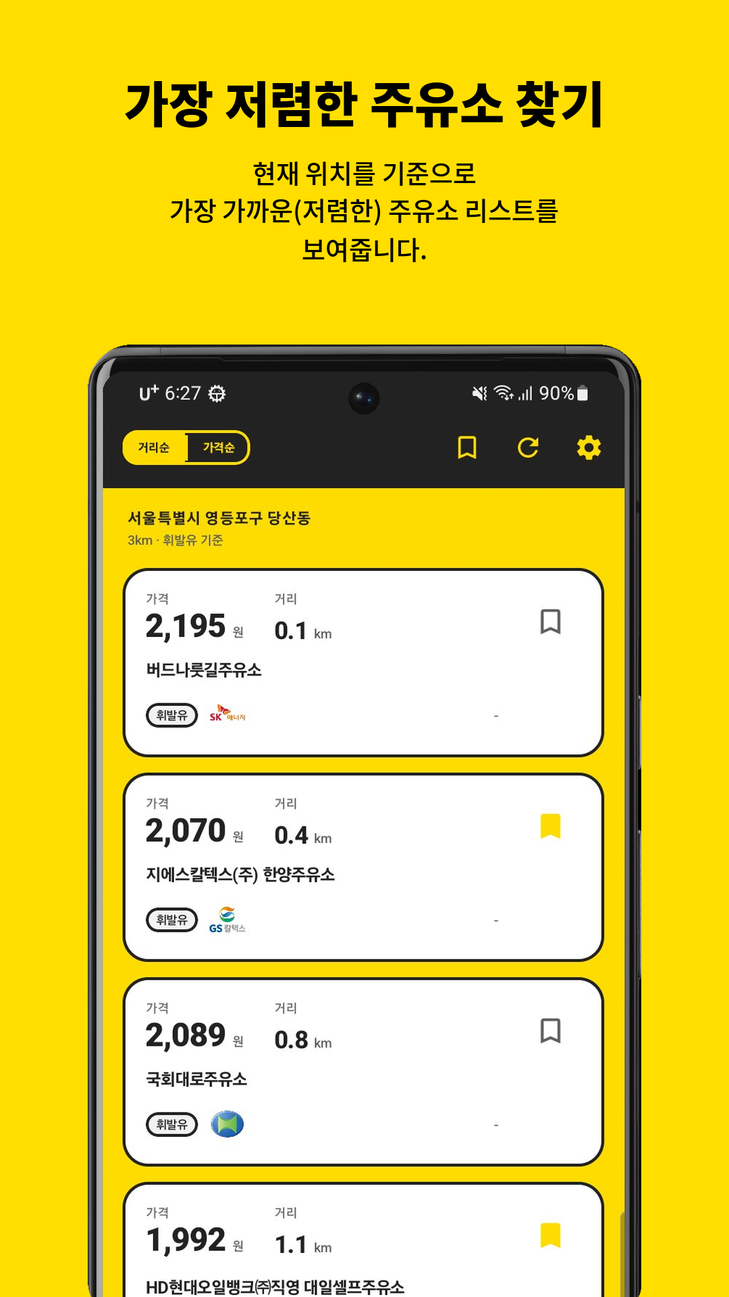
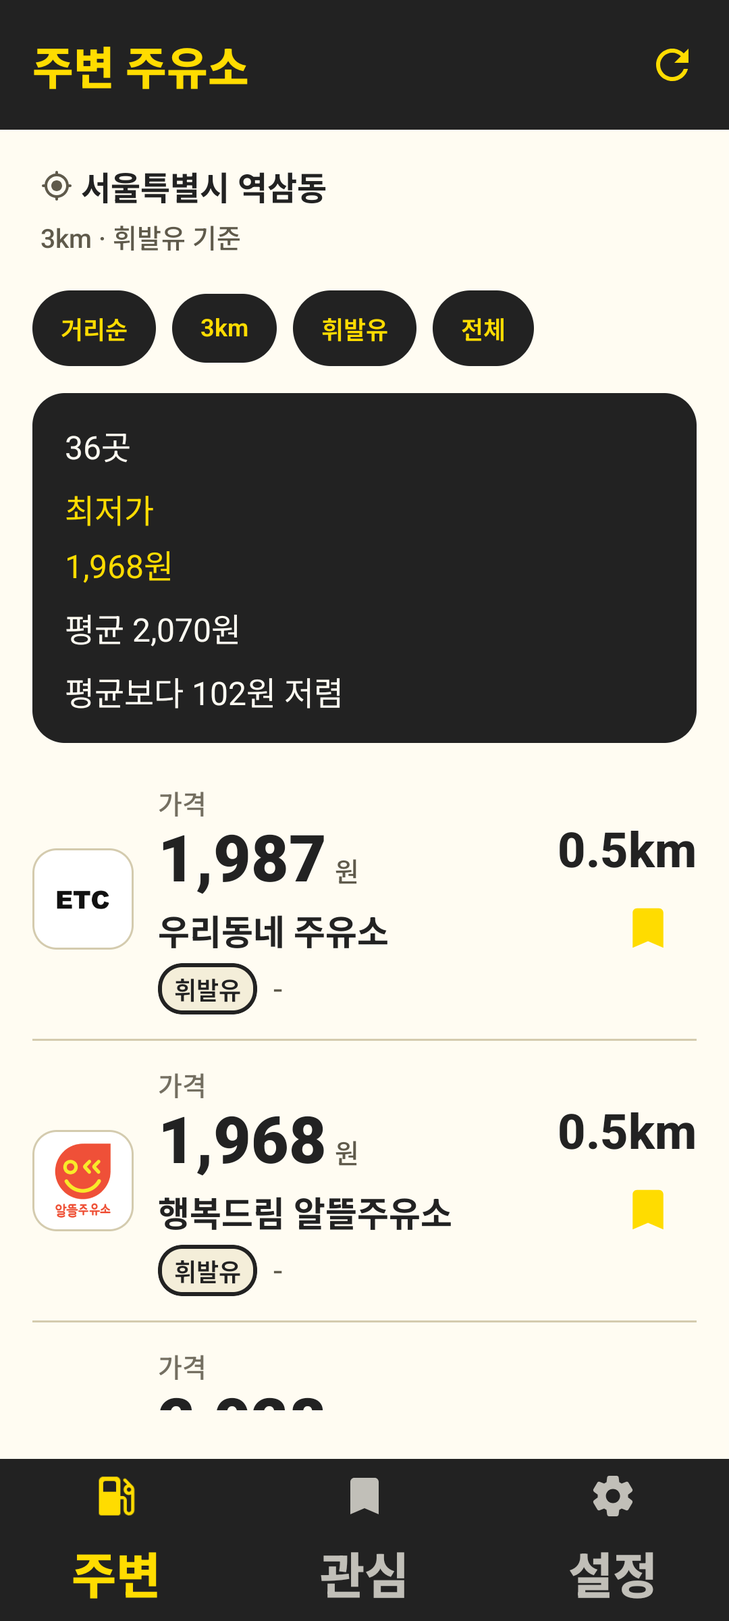
docs: publish Urban Signal UI evidence

diff --git a/app/src/androidTest/java/com/gasstation/StationPortfolioFlowTest.kt b/app/src/androidTest/java/com/gasstation/StationPortfolioFlowTest.kt
@@ -1,10 +1,10 @@
 package com.gasstation
 
+import android.Manifest
 import androidx.compose.ui.test.junit4.v2.createAndroidComposeRule
-import androidx.compose.ui.test.onAllNodesWithContentDescription
 import androidx.compose.ui.test.onAllNodesWithTag
 import androidx.compose.ui.test.onFirst
-import androidx.compose.ui.test.onNodeWithContentDescription
+import androidx.compose.ui.test.onNodeWithTag
 import androidx.compose.ui.test.performClick
 import androidx.test.ext.junit.runners.AndroidJUnit4
 import androidx.test.platform.app.InstrumentationRegistry
@@ -19,7 +19,9 @@ import kotlinx.coroutines.runBlocking
 import org.junit.Before
 import org.junit.Rule
 import org.junit.Test
+import org.junit.rules.TestRule
 import org.junit.runner.RunWith
+import org.junit.runners.model.Statement
 import javax.inject.Inject
 
 @HiltAndroidTest
@@ -34,10 +36,29 @@ class StationPortfolioFlowTest {
     @Inject
     lateinit var settingsRepository: SettingsRepository
 
-    @get:Rule
+    @get:Rule(order = 0)
     val hiltRule = HiltAndroidRule(this)
 
-    @get:Rule
+    @get:Rule(order = 1)
+    val locationPermissionRule = TestRule { base, _ ->
+        object : Statement() {
+            override fun evaluate() {
+                val instrumentation = InstrumentationRegistry.getInstrumentation()
+                val packageName = instrumentation.targetContext.packageName
+                instrumentation.uiAutomation.grantRuntimePermission(
+                    packageName,
+                    Manifest.permission.ACCESS_COARSE_LOCATION,
+                )
+                instrumentation.uiAutomation.grantRuntimePermission(
+                    packageName,
+                    Manifest.permission.ACCESS_FINE_LOCATION,
+                )
+                base.evaluate()
+            }
+        }
+    }
+
+    @get:Rule(order = 2)
     val rule = createAndroidComposeRule<MainActivity>()
 
     @Before
@@ -50,20 +71,15 @@ class StationPortfolioFlowTest {
         reseedDemoDatabase()
 
         rule.waitUntil(timeoutMillis = 10_000) {
-            rule.onAllNodesWithContentDescription("저장")
+            rule.onAllNodesWithTag("station-list-watch-toggle", useUnmergedTree = true)
                 .fetchSemanticsNodes().isNotEmpty()
         }
 
-        rule.onAllNodesWithContentDescription("저장")
+        rule.onAllNodesWithTag("station-list-watch-toggle", useUnmergedTree = true)
             .onFirst()
             .performClick()
 
-        rule.waitUntil(timeoutMillis = 10_000) {
-            rule.onAllNodesWithContentDescription("북마크")
-                .fetchSemanticsNodes().isNotEmpty()
-        }
-
-        rule.onNodeWithContentDescription("북마크").performClick()
+        rule.onNodeWithTag("bottom-nav-watchlist", useUnmergedTree = true).performClick()
 
         rule.waitUntil(timeoutMillis = 10_000) {
             rule.onAllNodesWithTag(

diff --git a/benchmark/src/main/kotlin/com/gasstation/benchmark/GasStationBenchmarkActions.kt b/benchmark/src/main/kotlin/com/gasstation/benchmark/GasStationBenchmarkActions.kt
@@ -16,7 +16,7 @@ private const val COARSE_LOCATION_PERMISSION = "android.permission.ACCESS_COARSE
 private const val FINE_LOCATION_PERMISSION = "android.permission.ACCESS_FINE_LOCATION"
 private const val REFRESH_ACTION_DESCRIPTION = "새로고침"
 private const val REFRESH_RAIL_TITLE = "가격 갱신 중"
-private const val STATION_LIST_WATCHLIST_ACTION_TAG = "station-list-watchlist-action"
+private const val BOTTOM_NAV_WATCHLIST_TAG = "bottom-nav-watchlist"
 private const val STATION_LIST_WATCH_TOGGLE_TAG = "station-list-watch-toggle"
 private const val WATCHLIST_CARD_TAG = "watchlist-card"
 
@@ -79,8 +79,8 @@ internal fun MacrobenchmarkScope.openWatchlistWithSavedStation() {
         label = "station-list watch toggle resource id '$STATION_LIST_WATCH_TOGGLE_TAG'",
     )
     clickStable(
-        selector = resourceId(STATION_LIST_WATCHLIST_ACTION_TAG),
-        label = "station-list watchlist action resource id '$STATION_LIST_WATCHLIST_ACTION_TAG'",
+        selector = resourceId(BOTTOM_NAV_WATCHLIST_TAG),
+        label = "watchlist bottom navigation resource id '$BOTTOM_NAV_WATCHLIST_TAG'",
     )
     waitForObject(
         selector = resourceId(WATCHLIST_CARD_TAG),

diff --git a/tools/demo-seed/src/main/kotlin/com/gasstation/tools/demoseed/DemoSeedGenerator.kt b/tools/demo-seed/src/main/kotlin/com/gasstation/tools/demoseed/DemoSeedGenerator.kt
@@ -43,14 +43,18 @@ class DemoSeedGenerator(private val fetcher: DemoSeedStationFetcher) {
         originLabel: String = GANGNAM_STATION_EXIT_2_LABEL,
     ): DemoSeedDocument {
         val snapshots = DemoSeedQueryMatrix.all().map { query ->
+            val fetchedStations = fetcher.fetchStations(
+                origin = origin,
+                radius = query.radius,
+                fuelType = query.fuelType,
+            )
+            val stations = (fetchedStations + DemoPortfolioStations.forQuery(query.radius, query.fuelType))
+                .distinctBy(DemoSeedRemoteStation::stationId)
+
             DemoSeedSnapshot(
                 radiusMeters = query.radius.meters,
                 fuelType = query.fuelType.name,
-                stations = fetcher.fetchStations(
-                    origin = origin,
-                    radius = query.radius,
-                    fuelType = query.fuelType,
-                ).map { station ->
+                stations = stations.map { station ->
                     DemoSeedStation(
                         stationId = station.stationId,
                         brandCode = station.brandCode,

diff --git a/tools/demo-seed/src/test/kotlin/com/gasstation/tools/demoseed/DemoSeedGeneratorTest.kt b/tools/demo-seed/src/test/kotlin/com/gasstation/tools/demoseed/DemoSeedGeneratorTest.kt
@@ -1,5 +1,6 @@
 package com.gasstation.tools.demoseed
 
+import com.gasstation.core.model.Brand
 import com.gasstation.core.model.Coordinates
 import com.gasstation.core.model.FuelType
 import com.gasstation.core.model.SearchRadius
@@ -97,7 +98,11 @@ class DemoSeedGeneratorTest {
         val document = DemoSeedJsonWriter.gson.fromJson(outputFile.readText(), DemoSeedDocument::class.java)
         assertEquals(15, document.queries.size)
         assertEquals("Gangnam Station Exit 2", document.origin.label)
-        assertEquals(2, document.history.size)
+        val portfolioSnapshot = document.queries.single {
+            it.radiusMeters == SearchRadius.KM_3.meters && it.fuelType == FuelType.GASOLINE.name
+        }
+        assertTrue(portfolioSnapshot.stations.any { it.brandCode == Brand.RTO.name })
+        assertTrue(portfolioSnapshot.stations.any { it.brandCode == Brand.ETC.name })
         assertTrue(document.history.any { it.stationId == "station-1" && it.fuelType == FuelType.GASOLINE.name })
         assertTrue(document.history.any { it.stationId == "station-2" && it.fuelType == FuelType.GASOLINE.name })
     }

diff --git a/tools/demo-seed/src/main/kotlin/com/gasstation/tools/demoseed/DemoPortfolioStations.kt b/tools/demo-seed/src/main/kotlin/com/gasstation/tools/demoseed/DemoPortfolioStations.kt
@@ -1,0 +1,28 @@
+package com.gasstation.tools.demoseed
+
+import com.gasstation.core.model.Coordinates
+import com.gasstation.core.model.FuelType
+import com.gasstation.core.model.SearchRadius
+
+internal object DemoPortfolioStations {
+    fun forQuery(radius: SearchRadius, fuelType: FuelType): List<DemoSeedRemoteStation> {
+        if (radius != SearchRadius.KM_3 || fuelType != FuelType.GASOLINE) return emptyList()
+
+        return listOf(
+            DemoSeedRemoteStation(
+                stationId = "DEMO-RTO-001",
+                name = "행복드림 알뜰주유소",
+                brandCode = "RTO",
+                priceWon = 1_968,
+                coordinates = Coordinates(latitude = 37.4935, longitude = 127.0258),
+            ),
+            DemoSeedRemoteStation(
+                stationId = "DEMO-ETC-001",
+                name = "우리동네 주유소",
+                brandCode = "ETC",
+                priceWon = 1_987,
+                coordinates = Coordinates(latitude = 37.5004, longitude = 127.0321),
+            ),
+        )
+    }
+}

diff --git a/app/src/testDemo/java/com/gasstation/demo/seed/DemoSeedAssetLoaderTest.kt b/app/src/testDemo/java/com/gasstation/demo/seed/DemoSeedAssetLoaderTest.kt
@@ -2,6 +2,7 @@ package com.gasstation.demo.seed
 
 import android.app.Application
 import androidx.test.core.app.ApplicationProvider
+import com.gasstation.core.model.Brand
 import com.gasstation.core.model.FuelType
 import com.gasstation.core.model.SearchRadius
 import org.junit.Assert.assertEquals
@@ -73,5 +74,10 @@ class DemoSeedAssetLoaderTest {
         assertEquals(DemoSeedOrigin.coordinates.latitude, document.origin.latitude, 0.0)
         assertEquals(DemoSeedOrigin.coordinates.longitude, document.origin.longitude, 0.0)
         assertEquals(expectedMatrix, actualMatrix)
+        val portfolioSnapshot = document.queries.single {
+            it.radiusMeters == SearchRadius.KM_3.meters && it.fuelType == FuelType.GASOLINE.name
+        }
+        assertEquals(true, portfolioSnapshot.stations.any { it.brandCode == Brand.RTO.name })
+        assertEquals(true, portfolioSnapshot.stations.any { it.brandCode == Brand.ETC.name })
     }
 }

diff --git a/app/src/main/java/com/gasstation/navigation/GasStationNavHost.kt b/app/src/main/java/com/gasstation/navigation/GasStationNavHost.kt
@@ -7,6 +7,7 @@ import androidx.compose.animation.fadeIn
 import androidx.compose.animation.fadeOut
 import androidx.compose.animation.slideInHorizontally
 import androidx.compose.animation.slideOutHorizontally
+import androidx.compose.foundation.layout.WindowInsets
 import androidx.compose.foundation.layout.padding
 import androidx.compose.material3.MaterialTheme
 import androidx.compose.material3.Scaffold
@@ -55,6 +56,7 @@ fun GasStationNavHost(externalMapLauncher: ExternalMapLauncher, onStationListFir
 
     Scaffold(
         containerColor = MaterialTheme.colorScheme.background,
+        contentWindowInsets = WindowInsets(0),
         bottomBar = {
             if (shouldShowBottomBar(currentRoute)) {
                 GasStationBottomNavigation(

diff --git a/benchmark/src/main/kotlin/com/gasstation/benchmark/BaselineProfileGenerator.kt b/benchmark/src/main/kotlin/com/gasstation/benchmark/BaselineProfileGenerator.kt
@@ -21,6 +21,7 @@ class BaselineProfileGenerator {
         waitForStationListContent()
         refreshStationList()
         scrollStationList()
+        // Save one station, then enter Watchlist through the persistent bottom navigation.
         openWatchlistWithSavedStation()
     }
 }

diff --git a/docs/architecture.md b/docs/architecture.md
@@ -6,7 +6,7 @@
 
 | 용어 | 뜻 |
 | --- | --- |
-| watchlist(북마크) | UI에서 저장한 주유소를 비교하는 기능. 코드와 모듈 이름은 `watchlist`, 화면 문구는 주로 "북마크"를 사용 |
+| watchlist(관심) | UI에서 저장한 주유소를 비교하는 기능. 코드와 모듈 이름은 `watchlist`, 화면 문구는 "관심"을 사용 |
 | 스냅샷 | 특정 캐시 버킷에 대해 마지막으로 저장한 주유소 목록 |
 | 스냅샷 마커 | `station_cache_snapshot` 한 행. 빈 결과도 "성공한 조회"로 구분하기 위해 따로 유지 |
 | stale | 저장된 결과는 있지만 `StationCachePolicy` 기준 5분을 넘긴 상태 |
@@ -84,7 +84,7 @@ flowchart LR
 | `data:station` | Room 스냅샷/히스토리/watchlist와 원격 조회를 조합하는 저장소 구현, 검색 결과/watchlist 읽기 모델 조립, 일시적 refresh 실패 1회 재시도, 성공 refresh 이후 캐시 정리 |
 | `core:model` | `Coordinates`, `DistanceMeters`, `MoneyWon` 값 객체, `Coordinates.distanceTo`, `Brand.fromCode`, `Brand`, `BrandFilter`, `FuelType`, `MapProvider`, `SearchRadius`, `SortOrder` 공유 enum vocabulary |
 | `core:observability` | `CrashReporter` 같은 SDK-agnostic 관찰/진단 계약 |
-| `core:designsystem` | `GasStationTheme`, 색상/타이포 token, 카드/배너/탑바, metric/supporting-info/row/guidance 공유 UI primitive, 브랜드 아이콘 리소스와 표시 라벨 매핑 |
+| `core:designsystem` | `GasStationTheme`, Urban Signal 색상/타이포/spacing token, bottom/top chrome, metric/row/guidance 공유 UI primitive, 실제 브랜드 drawable 매핑 |
 | `core:location` | `domain:location` 구현체, Android 위치 provider, availability flow, API 33+ 지오코더 callback과 pre-33 fallback, Android 주소 후보를 domain 정규화 규칙으로 변환, `DemoLocationOverride` 계약, repository/provider Hilt 바인딩 |
 | `core:network` | direct Opinet과 proxy 두 endpoint 모드를 `StationNetworkSource` 계약으로 추상화(`NetworkStationFetcher` vs `ProxyStationFetcher`), Opinet Retrofit 서비스, 로컬 KATEC 변환, 원격 fetcher. `FuelType`, `SearchRadius` 같은 공유 검색 입력만 받아 원격 DTO를 정규화. endpoint 모드와 base URL은 `app`이 주입한 `NetworkRuntimeConfig`만 따름 |
 | `core:database` | Room DB, DAO, migration |
@@ -98,16 +98,19 @@ flowchart LR
 
 ## Presentation hierarchy
 
-화면 정보 위계는 `core:designsystem`의 공통 primitive를 먼저 통과합니다. 가격과 거리처럼 비교 판단에 쓰이는 숫자는 `GasStationMetricBlock`과 `GasStationMetricEmphasis`를 사용하고, 보조 정보는 `GasStationSupportingInfo`, 설정 행은 `GasStationRow`, 권한/GPS/loading/empty/failure 안내는 `GasStationGuidanceCard`, stale/approximate 같은 목록 상단 상태는 `GasStationStatusBanner`로 표현합니다.
+화면 정보 위계는 `core:designsystem`의 공통 primitive를 먼저 통과합니다. canvas는 `#FFFCF2`, black chrome은 `#222222`, yellow decision signal은 `#FFDC00`입니다. 가격과 거리처럼 비교 판단에 쓰이는 숫자는 metric primitive를 사용하고, Nearby/Watchlist는 borderless row, Settings는 flat row, 권한/GPS/loading/empty/failure는 guidance primitive, stale/approximate는 status banner로 표현합니다.
 
-이 primitive들은 배치와 텍스트 역할만 소유합니다. "브랜드 label을 목록에서는 숨기고 watchlist에서는 보인다", "GPS가 loading보다 먼저 보인다", "어떤 실패 문구를 쓴다" 같은 화면별 판단은 계속 `feature:*`가 소유합니다.
+이 primitive들은 배치와 텍스트 역할만 소유합니다. "브랜드 label을 숨긴다", "GPS가 loading보다 먼저 보인다", "어떤 실패 문구를 쓴다" 같은 화면별 판단은 계속 `feature:*`가 소유합니다.
 
 화면별 핵심 계약:
 
-- `feature:station-list`: 가격을 첫 번째 읽기 대상으로 두고, 거리와 역명을 이어 보여줍니다. 브랜드는 유종 chip 옆 아이콘 중심으로만 노출하고 visible brand label은 렌더링하지 않습니다.
-- Station-list 파일 소유: `StationListScreen.kt`는 screen scaffold와 refresh rail을, `StationListCards.kt`는 카드와 watch toggle을, `StationListStates.kt`는 permission/GPS/loading/empty/failure 안내를, `StationListQuerySummary.kt`와 `StationListBodyState.kt`는 query context와 body 분기를 맡습니다.
-- `feature:watchlist`: 같은 metric 위계를 쓰지만 저장 항목 식별을 위해 brand icon과 visible brand label을 함께 보여줍니다.
+- `feature:station-list`: 32sp 가격을 첫 번째 읽기 대상으로 두고, 거리와 역명을 이어 보여줍니다. 브랜드는 실제 drawable 아이콘만 노출하고 visible brand label은 렌더링하지 않습니다.
+- Station-list 파일 소유: `StationListScreen.kt`는 screen scaffold와 refresh/filter rail을, `StationListCards.kt`는 borderless row와 watch toggle을, `StationListStates.kt`는 permission/GPS/loading/empty/failure 안내를, `StationListQuerySummary.kt`와 `StationListBodyState.kt`는 typed summary와 body 분기를 맡습니다.
+- `feature:watchlist`: 28sp 가격과 108–116dp 기본 row로 저장 항목을 비교합니다. 실제 brand icon만 보여주며 visible label은 반복하지 않고, 200% 글꼴에서는 row가 확장되어 scroll됩니다.
 - `feature:settings`: 설정 main/detail 모두 shared row rhythm을 쓰되, 값 저장은 기존 `domain:settings` update use case 경로를 유지합니다.
+- `app`: `주변·관심·설정` bottom navigation의 tab별 state/scroll을 `saveState`/`restoreState`로 보존하고 SettingsDetail에서만 bottom navigation을 숨깁니다.
+
+브랜드 자산은 생성하거나 recolor하지 않습니다. RTO/RTX/NHO는 `ic_rtx`, ETC는 `ic_etc`, SKE/GSC/HDO/SOL/E1G/SKG는 각 checked-in drawable을 사용합니다.
 
 ## 런타임 흐름
 
@@ -120,7 +123,7 @@ flowchart LR
 5. `StationSearchOrchestrator`는 현재 좌표와 검색 입력(`radius`, `fuelType`, `brandFilter`, `sortOrder`)으로 active `StationQuery`를 만들고 `ObserveNearbyStationsUseCase` 결과, cache snapshot state, pending blocking refresh failure를 조합합니다.
 6. 현재 좌표가 유지된 상태에서 반경, 유종, 브랜드, 정렬 조건이 바뀌면 ViewModel은 active query를 새 조건으로 전환하고 `RefreshNearbyStationsUseCase`를 호출합니다. 브랜드 필터와 정렬은 캐시 키에는 없지만, 화면은 새 조건으로 즉시 읽기 모델을 다시 만들고 원격 성공 시 같은 버킷 스냅샷을 최신 데이터로 교체합니다.
 7. `DefaultStationRepository.observeNearbyStations()`는 Room 스냅샷, watch 상태, 가격 히스토리를 결합해 `StationSearchResult`를 만듭니다.
-8. ViewModel은 loading flag, 사용자 action dispatch, one-shot effect, 최종 `StationListUiState` 조합을 맡고, UI는 목록, stale 배너, 전면 오류, snackbar, 외부 지도 effect를 구분해 렌더링합니다. 목록 카드의 브랜드 영역은 유종 chip과 브랜드 아이콘만 보여주고 브랜드 텍스트는 생략합니다.
+8. ViewModel은 loading flag, 사용자 action dispatch, one-shot effect, 최종 `StationListUiState` 조합을 맡고, UI는 목록, stale 배너, 전면 오류, snackbar, 외부 지도 effect를 구분해 렌더링합니다. 목록 row의 브랜드 영역은 실제 브랜드 아이콘만 보여주고 브랜드 텍스트는 생략합니다.
 
 첫 usable content가 렌더링되면 `feature:station-list`가 순수 policy로 이 상태를 판단하고, `app`의 Compose host가 그 신호를 받아 `reportFullyDrawn()`을 한 번 호출합니다. 이 연결은 startup metric 보고용이며, 검색 정책이나 cache/stale 판단은 계속 feature/data/domain 경계에 남습니다.
 
@@ -143,12 +146,12 @@ flowchart LR
 2. 상세 화면은 별도 ViewModel을 만들지 않고, `GasStationNavHost`에서 settings back stack owner를 공유받아 같은 `SettingsViewModel`을 사용합니다.
 3. 사용자가 값을 바꾸면 `UpdateFuelTypeUseCase`, `UpdateSearchRadiusUseCase`, `UpdateBrandFilterUseCase`, `UpdateMapProviderUseCase`, `UpdatePreferredSortOrderUseCase` 같은 명시적 설정 유스케이스를 통해 `UserPreferences`가 갱신되고, 목록 화면도 같은 값을 즉시 반영합니다.
 
-### 4. watchlist(북마크) 화면
+### 4. watchlist(관심) 화면
 
-1. 목록 화면은 현재 좌표를 nav argument로 넘겨 `WatchlistRoute`로 이동합니다.
+1. 목록 화면이 전달한 최신 좌표는 app navigation state의 payload로 유지됩니다. 좌표가 없으면 관심 tab은 disabled semantics를 노출하며, 좌표가 바뀌면 이전 concrete route를 제거하고 새 payload route로 이동합니다.
 2. `WatchlistViewModel`은 `SavedStateHandle`에서 기준 좌표를 읽고 `ObserveWatchlistUseCase`를 바로 구독합니다.
 3. 저장소는 `watched_station`, station별 최신 캐시, 가격 히스토리를 조합해 `WatchedStationSummary`를 만듭니다. 최신 캐시는 DAO가 stationId 선행 index와 deterministic tie-breaker로 station별 한 행만 반환합니다.
-4. 화면은 별도 세션 상태 없이 요약 카드만 렌더링합니다.
+4. 화면은 별도 위치 조회, refresh session, snackbar undo 없이 summary와 저장 행을 렌더링합니다. 이 좌표 payload는 navigation state이며 검색/위치 비즈니스 정책은 아닙니다.
 
 ## flavor와 startup hook
 

diff --git a/docs/test-strategy.md b/docs/test-strategy.md
@@ -26,14 +26,14 @@
 | `core:network` | `LocalKoreanCoordinateTransformTest`, `NetworkStationFetcherTest`, `ProxyStationFetcherTest`, `NetworkRuntimeConfigTest` | 좌표 변환, direct/proxy 원격 fetcher, endpoint 모드 설정 주입과 proxy base URL 검증 |
 | `core:location` | `AddressLabelFormatterTest`, `AndroidForegroundLocationProviderSurfaceTest`, `AndroidForegroundLocationProviderTest`, `DefaultLocationRepositoryTest`, `LocationAvailabilityFlowTest`, `LocationPermissionStateTest`, `GeocoderAsyncLookupTest`, `AndroidAddressResolverDeviceTest` | Android 위치 조회 표면, API 33+ 지오코더 callback wrapping, Android Address 후보 변환과 domain 정규화 적용, domain location 구현, availability broadcast 반영, device-backed callback smoke |
 | `core:datastore` | `UserPreferencesSerializerTest`, `AndroidUserPreferencesDataSourceTest` | storage-local 설정 DTO 직렬화와 DataStore 업데이트 |
-| `core:designsystem` | `GasStationThemeDefaultsTest`, `GasStationThemeSurfaceTest`, `GasStationThemeTokensTest`, `ChromeContractsTest`, `BrandIconTest`, `BrandLabelsTest` | 브랜드 anchor 색상, tinted surface token, typography/spacing token, metric/supporting-info/row/status/guidance chrome 계약, `Brand`별 아이콘과 표시 label 매핑 |
+| `core:designsystem` | `GasStationThemeDefaultsTest`, `GasStationThemeSurfaceTest`, `GasStationThemeTokensTest`, `ChromeContractsTest`, `BrandIconTest`, `BrandLabelsTest`, Roborazzi snapshot | Urban Signal `#FFFCF2`/`#222222`/`#FFDC00` token, typography/spacing, chrome와 shared primitive, 실제 `Brand` drawable 매핑 |
 | `data:settings` | `DefaultSettingsRepositoryTest` | storage-local 설정 DTO와 domain `UserPreferences` 매핑, 알 수 없는 enum name fallback |
 | `data:station` | `DefaultStationRepositoryTest`, `StationCachePolicyTest`, `data:station/StationRetryPolicyTest`, `StationRemoteDataSourceTest`, `WatchlistRepositoryTest` | 캐시/히스토리/watchlist 조합, stale/retention 규칙, 성공 refresh 이후 pruning과 `SearchRefreshed` event, `Timeout`/`Network` retry once 정책과 retry event, 원격 오류 매핑 |
-| `feature:station-list` | `feature:station-list/LocationStateMachineTest`, `feature:station-list/StationSearchOrchestratorTest`, `StationListViewModelTest`, `StationListScreenTest`, `StationListRoutePolicyTest`, `StationListBannerModelTest`, `StationListItemUiModelTest`, `GpsAvailabilityMonitorTest` | 위치 상태 전이, query/cache/failure orchestration, extraction 이후 UI state composition/effect/action dispatch, stale/approximate guidance, 주소 컨텍스트 표시, 가격 우선 카드, 긴 역명/가격/유종 clipping 방지, route lifecycle 기반 availability 관찰과 권한/GPS recovery, first usable content 기준 |
-| `feature:settings` | `SettingsViewModelTest`, `SettingsScreenTest`, `SettingsSectionTest` | 설정 요약/상세 화면 계약, 그룹/row hierarchy, selected check affordance, 긴 현재값 row clipping 방지 |
-| `feature:watchlist` | `WatchlistViewModelTest`, `WatchlistScreenTest`, `WatchlistItemUiModelTest` | 북마크 비교 화면 상태와 표시, `CompareViewed` event, brand label 보존, metric column alignment, 긴 저장 항목/큰 가격 clipping 방지 |
+| `feature:station-list` | `feature:station-list/LocationStateMachineTest`, `feature:station-list/StationSearchOrchestratorTest`, `StationListViewModelTest`, `StationListScreenTest`, `StationListRoutePolicyTest`, `StationListBannerModelTest`, `StationListItemUiModelTest`, `GpsAvailabilityMonitorTest`, Roborazzi states | 위치 상태 전이, query/cache/failure orchestration, price-first row와 typed summary, stale/empty/permission/GPS/failure, 긴 역명/가격/유종 clipping 방지, route lifecycle 기반 availability 관찰과 권한/GPS recovery, first usable content 기준 |
+| `feature:settings` | `SettingsViewModelTest`, `SettingsScreenTest`, `SettingsSectionTest`, Roborazzi overview/detail | 설정 상태, update use case dispatch, flat row, 실제 브랜드 tile, route/summary 계약 |
+| `feature:watchlist` | `WatchlistViewModelTest`, `WatchlistScreenTest`, `WatchlistItemUiModelTest`, Roborazzi snapshot | 관심 비교 상태, `CompareViewed` event, 실제 logo와 visible label 미반복, 108–116dp 5행, 200% font scale 확장과 clipping 방지 |
 | `app` | `AppStartupGraphTest`, `AppStartupRunnerTest`, `ExternalMapLauncherTest`, `SplashThemeResourceTest`, `AppIconResourceTest`, `NetworkSecurityConfigResourceTest`, `BackupPolicyResourceTest`, `ProdSecretsStartupHookTest` | startup hook 바인딩, prod key fail-fast, 앱 리소스, Opinet-only cleartext config, Android backup 비활성화, 외부 지도 인텐트 |
-| `demo` 전용 앱 경로 | `DemoSeedStartupHookTest`, `DemoSeedAssetLoaderTest`, `DemoLocationHookIntegrationTest`, `StationPortfolioFlowTest` | seed 적재, 고정 위치, 실제 북마크 플로우 |
+| `demo` 전용 앱 경로 | `DemoSeedStartupHookTest`, `DemoSeedAssetLoaderTest`, `DemoLocationHookIntegrationTest`, `StationPortfolioFlowTest` | seed 적재, 고정 위치, RTO/ETC portfolio row, `station-list-watch-toggle` -> `bottom-nav-watchlist` -> `watchlist-card` 실제 관심 플로우 |
 | `benchmark` | `StationListBenchmark`, `BaselineProfileGenerator`, `GasStationBenchmarkActions` | startup-to-first-content, list scroll, refresh, watchlist 진입, baseline profile journey |
 | `tools:demo-seed` | `DemoSeedGeneratorTest` | seed 생성기와 질의 매트릭스 |
 
@@ -45,7 +45,7 @@
 
 - startup hook이 DB와 선호를 고정 상태로 리셋하는지
 - 고정 위치 override가 실제 런타임에 들어오는지
-- 목록 -> 북마크 저장 -> watchlist 이동 플로우가 실제 기기 테스트에서 동작하는지
+- 목록 -> 관심 저장 -> `bottom-nav-watchlist` -> `watchlist-card` 플로우가 실제 기기 테스트에서 동작하는지
 - benchmark가 반복 가능한 데이터 경로를 기준으로 측정되는지
 
 ### `prod`
@@ -70,12 +70,12 @@
   Android 지오코더는 `대한민국`, `KR`, 건물 동, 도로명 조각을 섞어 줄 수 있습니다. 순수 정규화는 `domain:location`, Android `Address` 후보 변환은 `core:location` 테스트로 나눠 목록 상단에 raw 주소가 그대로 노출되지 않게 막습니다.
 - `AndroidAddressResolverDeviceTest`
   API 33+ Geocoder callback path를 실제 기기/에뮬레이터에서 확인하는 connected smoke test입니다. Provider 출력은 기기와 네트워크 상태에 따라 달라지므로 주소 문자열이 아니라 terminal domain result 도달만 검증합니다.
-- `BrandLabels`
-  station list, watchlist, settings가 같은 브랜드 표시 label을 공유하므로 RTX 같은 canonical label 회귀를 한 곳에서 막습니다.
+- `BrandIconTest` / feature Roborazzi
+  RTO/RTX/NHO -> `ic_rtx`, ETC -> `ic_etc`와 나머지 실제 drawable mapping, Watchlist의 visible brand label 미반복을 함께 막습니다.
 - Theme/string cleanup
   Feature-owned user copy는 `app`이나 `core:designsystem`으로 이동하지 않습니다. 화면 semantics와 test tag가 회귀 방어선입니다.
 - Compose semantics/test tag cleanup
-  테스트용 식별자는 사용자 표시 문자열과 분리합니다. watchlist card처럼 스크린 리더에 필요한 한글 설명은 유지하되, 테스트는 안정적인 ASCII tag를 선택합니다.
+  테스트용 식별자는 사용자 표시 문자열과 분리합니다. 스크린 리더에 필요한 한글 설명은 유지하되, 테스트는 `station-list-watch-toggle`, `bottom-nav-watchlist`, `watchlist-card` 같은 안정적인 ASCII tag를 선택합니다.
 - Station-list Main dispatcher test setup
   `StationListViewModelTest`의 `Dispatchers.setMain/resetMain` 반복은 `MainDispatcherRule`로 묶어 scheduler 기대를 한 곳에서 관리합니다.
 - `DemoSeedStartupHook`

diff --git a/README.md b/README.md
@@ -14,19 +14,19 @@
 
 ## 미리보기
 
-`prod` 기준 주요 화면입니다.
+재현 가능한 `demo` 경로에서 캡처한 Urban Signal UI 주요 화면입니다.
 
 <p align="center">
-  <img width="31%" alt="주유주유소 가까운 주유소 목록 화면" src="docs/readme-assets/playstore_11.png">
-  <img width="31%" alt="주유주유소 한 번의 터치 길 안내 화면" src="docs/readme-assets/playstore_22.png">
-  <img width="31%" alt="주유주유소 찾기 설정 화면" src="docs/readme-assets/playstore_33.png">
+  <img width="31%" alt="가격 우선 가까운 주유소 화면" src="docs/readme-assets/playstore_11.png">
+  <img width="31%" alt="다섯 곳을 한눈에 비교하는 관심 주유소 화면" src="docs/readme-assets/playstore_22.png">
+  <img width="31%" alt="실제 브랜드 타일을 사용하는 브랜드 필터 상세 화면" src="docs/readme-assets/playstore_33.png">
 </p>
 
 ## 빠른 요약
 
 | 항목 | 내용 |
 | --- | --- |
-| 사용자 플로우 | 현재 위치 조회 -> 목록 확인 -> 북마크 저장 -> watchlist 비교 -> 외부 지도 열기 |
+| 사용자 플로우 | 현재 위치 조회 -> 주변 목록 확인 -> 관심 저장 -> 관심 목록 비교 -> 외부 지도 열기 |
 | 구조 | `app / feature / domain / data / core / tools / benchmark` 멀티모듈 |
 | 런타임 | 재현 가능한 `demo`, 실제 Opinet Open API 키 기반 `prod` |
 | 현재 앱 버전 | `1.2.0` (`versionCode` 8) |
@@ -43,9 +43,11 @@
 - 목록은 stale 결과를 유지하고, 일시적 `Timeout`/`Network` 실패는 `data:station`에서 1회 재시도합니다. 성공한 refresh는 7일 보관 기준으로 오래된 캐시를 정리하고, watchlist는 최신 캐시가 없어도 저장 항목과 가격 히스토리로 비교 화면을 복원합니다.
 - `StationListViewModel`은 최종 UI state/effect 조합에 집중하고, 위치 상태는 `LocationStateMachine`, query/cache/failure 판단은 `StationSearchOrchestrator`, refresh retry는 `StationRetryPolicy`가 맡습니다.
 - `StationEventLogger`는 refresh 성공, watch toggle, watchlist 비교 표시, 외부 지도 handoff 요청, refresh 실패, 위치 실패, retry 결과를 구조화된 이벤트로 남깁니다. `CrashReporter` 같은 비치명 예외 보고 계약은 `core:observability`가 소유하고, 앱이 flavor별 구현을 바인딩합니다.
-- 주유소 목록 카드는 가격과 거리 가독성을 우선하고, 유종 chip 옆에는 브랜드 텍스트 없이 브랜드 아이콘만 배치합니다.
+- 주변 주유소는 테두리 없는 price-first row로 보여주며, 가격을 32sp hero로 두고 거리·역명·유종·실제 브랜드 로고를 보조 정보로 배치합니다.
+- `#FFFCF2` canvas, `#222222` black chrome, `#FFDC00` yellow signal을 공통 토큰으로 사용하고 `주변·관심·설정` bottom navigation을 유지합니다. 설정 상세에서는 bottom navigation을 숨깁니다.
+- 관심 목록은 108–116dp 기본 row에 28sp 가격과 실제 브랜드 로고를 배치해 360dp × 800dp에서 다섯 개 완전한 행을 보여줍니다. 200% 글꼴에서는 행이 확장되고 화면이 스크롤됩니다.
 - `Coordinates.distanceTo`, `Brand.fromCode`, `Brand`, `FuelType`, `SearchRadius` 같은 값 객체 행동과 공유 vocabulary는 `core:model`에 두어 data, settings, network, designsystem이 `domain:station`을 거치지 않고 사용합니다.
-- `core:designsystem`의 metric, supporting-info, row, guidance primitive와 브랜드 표시 라벨을 station list, watchlist, settings가 공유해 같은 정보 위계를 반복합니다.
+- `core:designsystem`의 Urban Signal token, metric, row, guidance primitive와 실제 브랜드 drawable mapping을 station list, watchlist, settings가 공유해 같은 정보 위계를 반복합니다. RTO/RTX/NHO는 `ic_rtx`, ETC는 `ic_etc`를 사용합니다.
 - 설정 메인 화면과 상세 선택 화면은 route는 다르지만 같은 `SettingsViewModel` 상태를 공유하고, 쓰기는 explicit domain use case로만 흘립니다.
 - `prod` 검색 파이프라인은 로컬 KATEC 좌표 변환 + Opinet 호출만 사용하고, `demo`는 같은 규칙을 seed 데이터로 재현합니다.
 
@@ -116,8 +118,8 @@ flowchart LR
 2. ViewModel은 `domain:location` 유스케이스와 `UserPreferences`를 조합해 검색 입력만 담는 `StationQuery`를 만들고 저장소 읽기 모델을 구독합니다. 현재 좌표가 유지된 상태에서 반경, 유종, 브랜드, 정렬 조건이 바뀌면 active query를 새 조건으로 갱신하고 refresh를 요청합니다.
 3. 현재 주소 라벨은 `domain:location`의 `AddressLabelNormalizer`가 행정동 중심으로 정규화하고, `core:location`은 Android 지오코더 후보를 그 규칙에 통과시킵니다.
 4. `prod` 새로고침 성공 시 Room 스냅샷과 가격 히스토리가 갱신되고 오래된 캐시는 정리되며, 실패 시 기존 스냅샷은 유지됩니다. `Timeout`/`Network` 실패는 500ms 뒤 한 번 재시도하고, `demo`는 고정 좌표 + seed 기반 remote source로 같은 갱신 규칙을 재현합니다.
-5. 목록에서 저장한 주유소는 watchlist 화면에서 가격 변화와 거리 기준으로 다시 비교할 수 있습니다.
-6. 주유소 카드 클릭 시 사용자가 선택한 외부 지도 앱으로 길찾기 handoff를 요청합니다.
+5. 목록에서 저장한 주유소는 `주변·관심·설정` bottom navigation의 관심 화면에서 가격 변화와 거리 기준으로 다시 비교할 수 있습니다.
+6. 주유소 행 클릭 시 사용자가 선택한 외부 지도 앱으로 길찾기 handoff를 요청합니다.
 
 ## 실행 모드
 

diff --git a/docs/performance.md b/docs/performance.md
@@ -50,7 +50,7 @@ The baseline profile generator covers:
 - Station-list scroll
 - Watchlist entry after saving a station
 
-The generator and its companion `openWatchlistFrameTiming` benchmark depend on the station-list save action, top-bar bookmark action, and watchlist card appearing within the benchmark helper timeout. Those elements are selected through Compose test tags exposed as resource IDs so benchmark selectors stay separate from Korean accessibility copy. See Known Limitations for the current status of those two scenarios.
+The generator and its companion `openWatchlistFrameTiming` benchmark depend on `station-list-watch-toggle`, the persistent `bottom-nav-watchlist` tab, and `watchlist-card` appearing within the benchmark helper timeout. These ASCII test tags are exposed as resource IDs so benchmark selectors stay separate from Korean accessibility copy. See Known Limitations for the current status of those two scenarios.
 
 ## Commands
 
@@ -70,7 +70,7 @@ The `:app` `benchmark` build type forks `release` with `isDebuggable=false`, `is
 ## Known Limitations
 
 - **Baseline profile not installed.** `BaselineProfileGenerator.collectHeroJourney` did not produce a committed physical-device profile in the latest measured run, so compilation mode stays at `verify`. Startup numbers above are realistic for first-install / post-update users and represent a lower-bound improvement target once a baseline profile is generated.
-- **`openWatchlistFrameTiming` not yet re-measured on a physical device.** On 2026-06-07 the benchmark helper launches `com.gasstation.demo/com.gasstation.MainActivity` explicitly and waits for stable resource-id selectors before interacting with the station list or watchlist: `station-list-watch-toggle`, `station-list-watchlist-action`, and `watchlist-card`. The code assembles, but this release-readiness pass did not have a physical device attached, so no new `openWatchlistFrameTiming` JSON or trace artifact was generated. Keep README performance numbers unchanged until `ANDROID_SERIAL=<physical device> ./gradlew :app:installDemoBenchmark :benchmark:connectedBenchmarkAndroidTest` passes and `find benchmark/build/outputs/connected_android_test_additional_output -name '*benchmarkData.json' -print` shows a new source JSON.
+- **`openWatchlistFrameTiming` not yet re-measured on a physical device.** The benchmark helper launches `com.gasstation.demo/com.gasstation.MainActivity` explicitly and waits for `station-list-watch-toggle`, `bottom-nav-watchlist`, and `watchlist-card`. Task 8 verified the same selector flow on a Pixel 8 API 37 emulator, and `:benchmark:assemble` keeps the production benchmark contract compiled, but no new physical-device JSON or trace artifact was generated. Keep README performance numbers unchanged until `ANDROID_SERIAL=<physical device> ./gradlew :app:installDemoBenchmark :benchmark:connectedBenchmarkAndroidTest` passes and `find benchmark/build/outputs/connected_android_test_additional_output -name '*benchmarkData.json' -print` shows a new source JSON.
 - **Cooling and thermal state not enforced.** macrobenchmark warned about `SUSTAINED_PERFORMANCE_MODE` being unavailable; results above are the median over 10 startup iterations and 5 frame iterations, which mitigates but does not eliminate device-side thermal variance. Re-run on a cooled device before committing future numbers if comparisons span multiple firmware revisions.
 
 ## APK Size (demo flavor)
